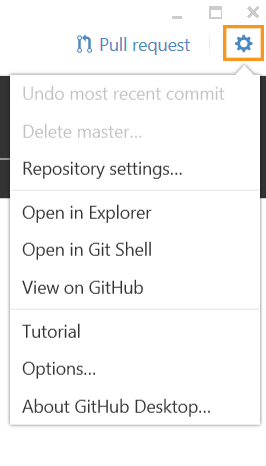
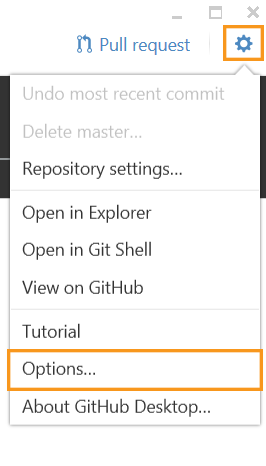
consolidate PC-specific instructions for desktop login

Changed region(s): [[0.0, 0.7511, 0.9925, 0.8412]]

diff --git a/project.html b/project.html
@@ -95,12 +95,9 @@
 		<h3>Cloning a Repository</h3>
 		<hr>
 		<p>Cloning is the process of saving a local copy of your repo to your own computer, so that you can make changes outside of the internet. A clone is simply a local version of a repo, which means it must be synced periodically with your version on the web. To do this, you must first download and install the <a href="http://desktop.github.com" target="_blank">GitHub Desktop program</a> and make sure you have set up the program by logging into your account. This tutorial uses screenshots from the PC version of this application, but the majority of the steps should be the same for a Mac. The few steps that are drastically different will include screenshots for Mac.</p>
-		<a href="images/settings-btn.png" data-lightbox="3"><img src="images/settings-btn.png" style="margin: 2em; float: right; width: 20%" /></a>
+		<a href="images/settings-btn.png" data-lightbox="3"><img src="images/settings-btn.png" style="margin: 2em; float: right; width: 30%" /></a>
 		<br>
 		<p><strong>FOR PC</strong>:To confirm you have logged into your account, locate the settings area of the application. It is the button that looks like a gear.</p>
-		<div style="clear: both"></div>
-		<a href="images/settings-list.png" data-lightbox="4"><img src="images/settings-list.png" style="margin: 2em; float: right; width: 20%" /></a>
-		<br>
 		<p>This will bring up a list of places to go to change various settings. Pick the one that says "Options..."</p>
 		<div style="clear: both"></div>
 		<a href="images/options.png" data-lightbox="5"><img src="images/options.png" style="margin: 2em; float: right; width: 60%" /></a>
@@ -171,7 +168,7 @@
 		<br>
 		<p>The window that opens will look something like this one, with four dropdown menus: "base fork," "base," "head fork," and "compare." In this configuration, the system thinks you're asking to merge changes from one fork (yours) into another (in this case, the original). For this specific Pull Request, we are looking to make changes within our own forked repo, so it is important to change whichever fork (either the "base fork" or "head fork") from the original repo on the msu-anthropology account to one's own account.</p>
 		<div style="clear: both"></div>
-		<a href="images/change-base-fork.png" data-lightbox="16"><img src="images/change-base-fork.png" style="margin: 2em; float: right; width: 40%" /></a>
+		<a href="images/change-base-fork.png" data-lightbox="16"><img src="images/change-base-fork.png" style="margin: 2em; float: right; width: 35%" /></a>
 		<br>
 		<p>Your own account should be the second entry on the list, under msu-anthropology.</p>
 		<div style="clear: both"></div>
